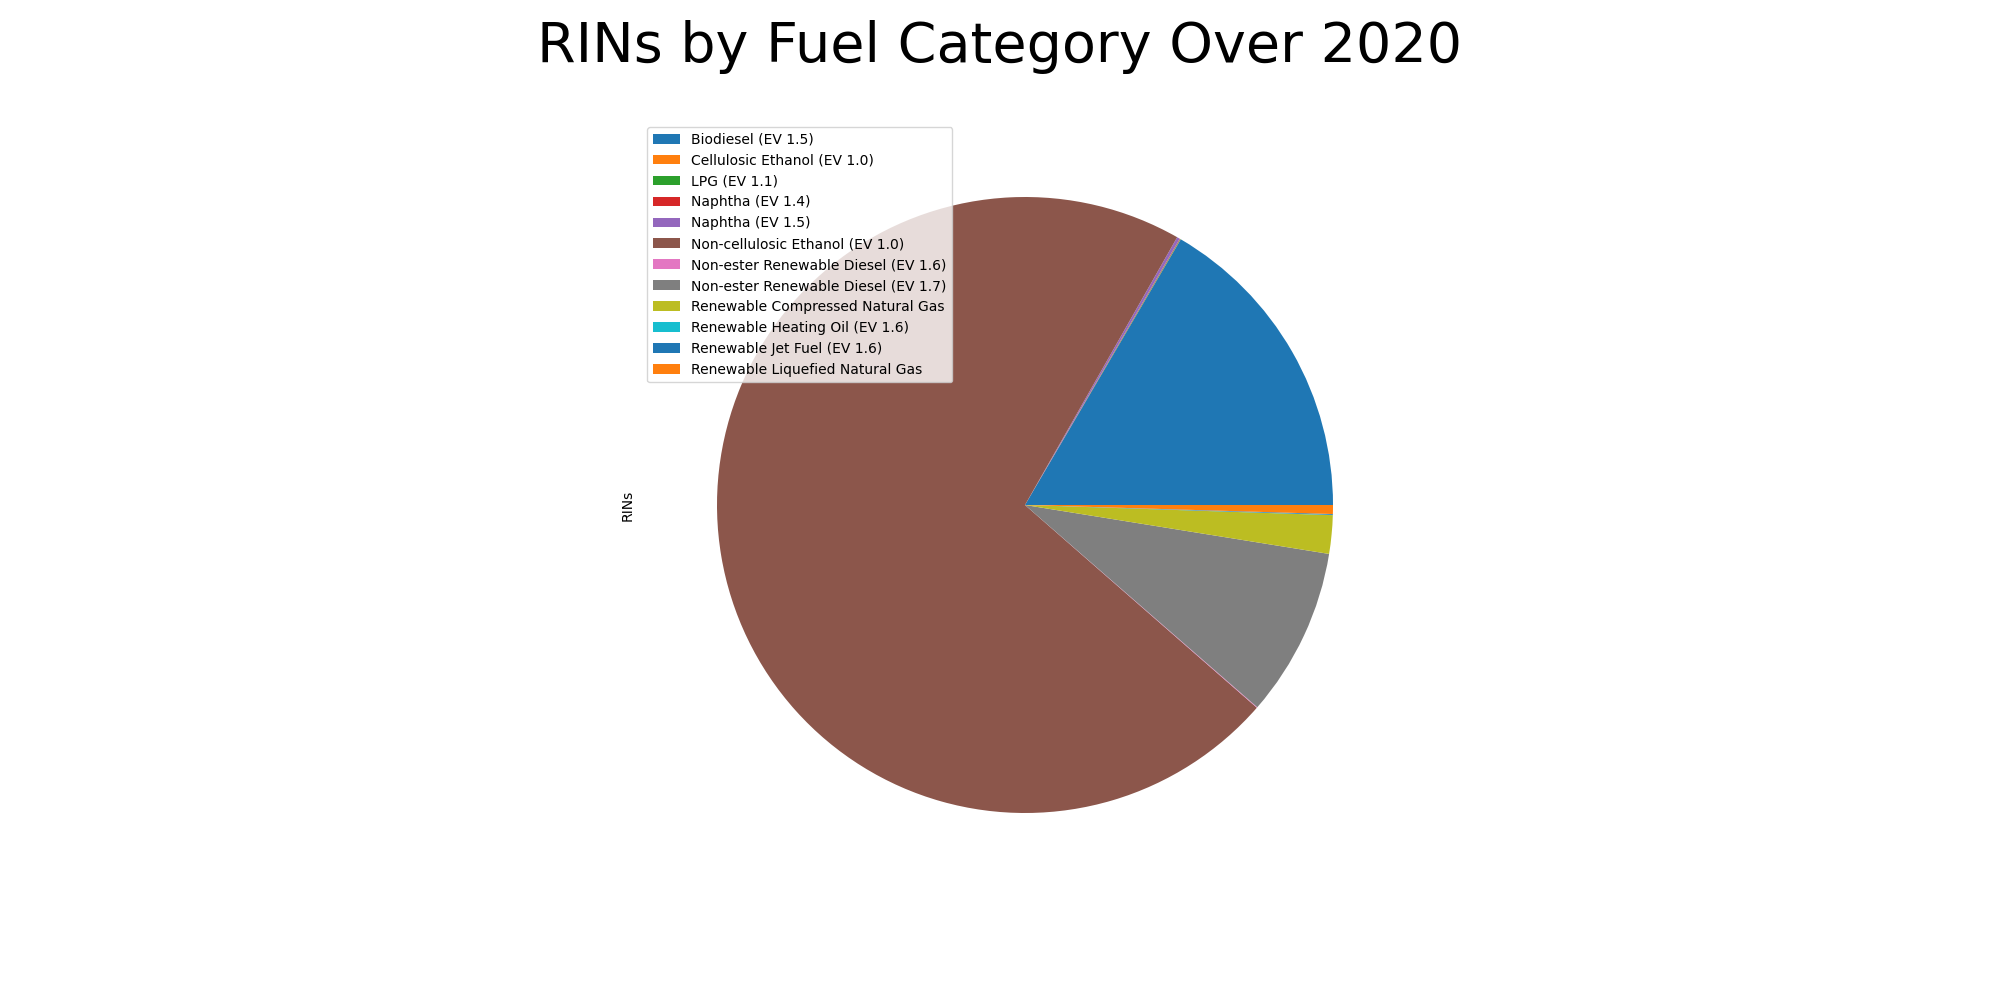
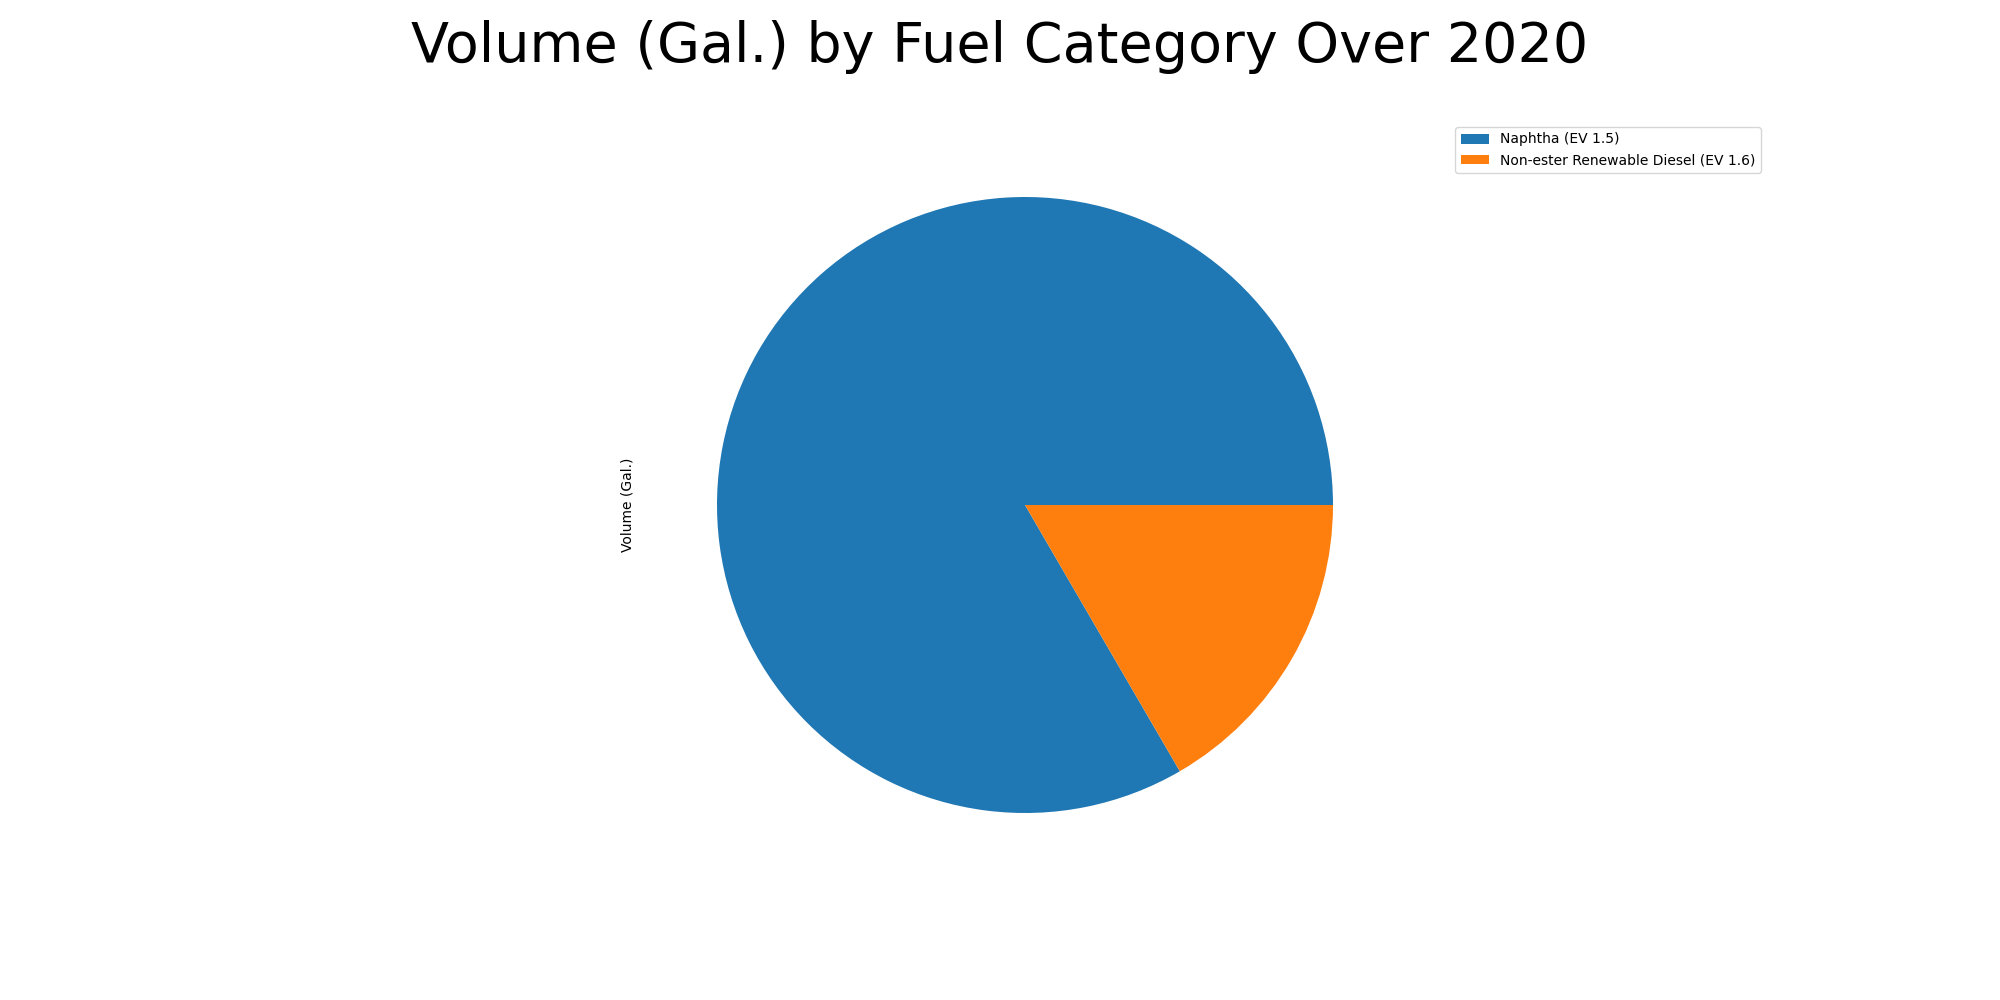
Moved legend

Changed region(s): [[0.31, 0.124, 0.682, 0.837], [0.186, 0.0, 0.806, 0.093], [0.713, 0.124, 0.868, 0.186]]

diff --git a/app.py b/app.py
@@ -26,7 +26,6 @@ def plot():
     # Import data and aggregate
     raw_df = pd.read_csv("dataset.csv")
     by_category = raw_df.groupby(['Fuel Category', 'Month']).sum()[['RINs','Volume (Gal.)']].reset_index()
-    print(by_category.head())
 
     # Filter based on checked fuel categories
     filter_list = []
@@ -47,6 +46,7 @@ def plot():
     consolidated.set_index('Fuel Category', inplace = True)
     ax.clear()
     consolidated.plot(ax = ax, y = output, kind = 'pie', labeldistance = None)
+    plt.legend(bbox_to_anchor=(1.05, 1), loc='upper left')
     plt.savefig(pie_url)
 
     # return render_template('plot.html', checked = checked, output = output, url = url)
